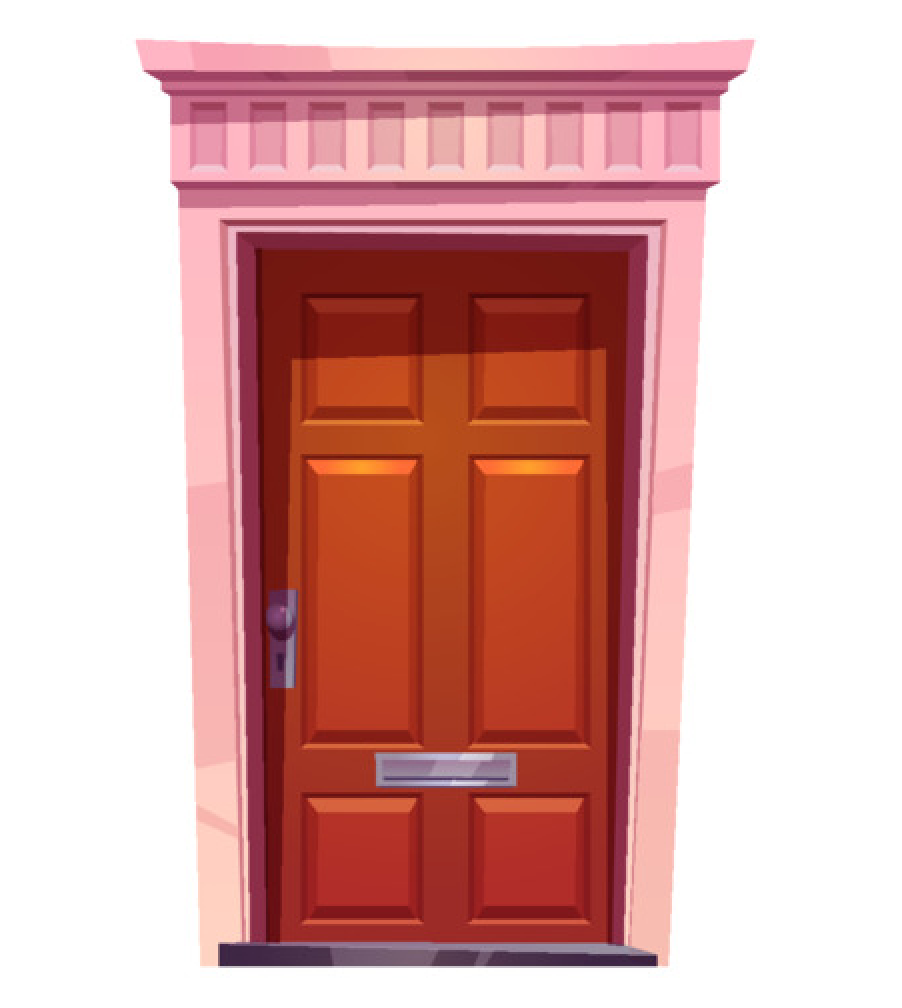
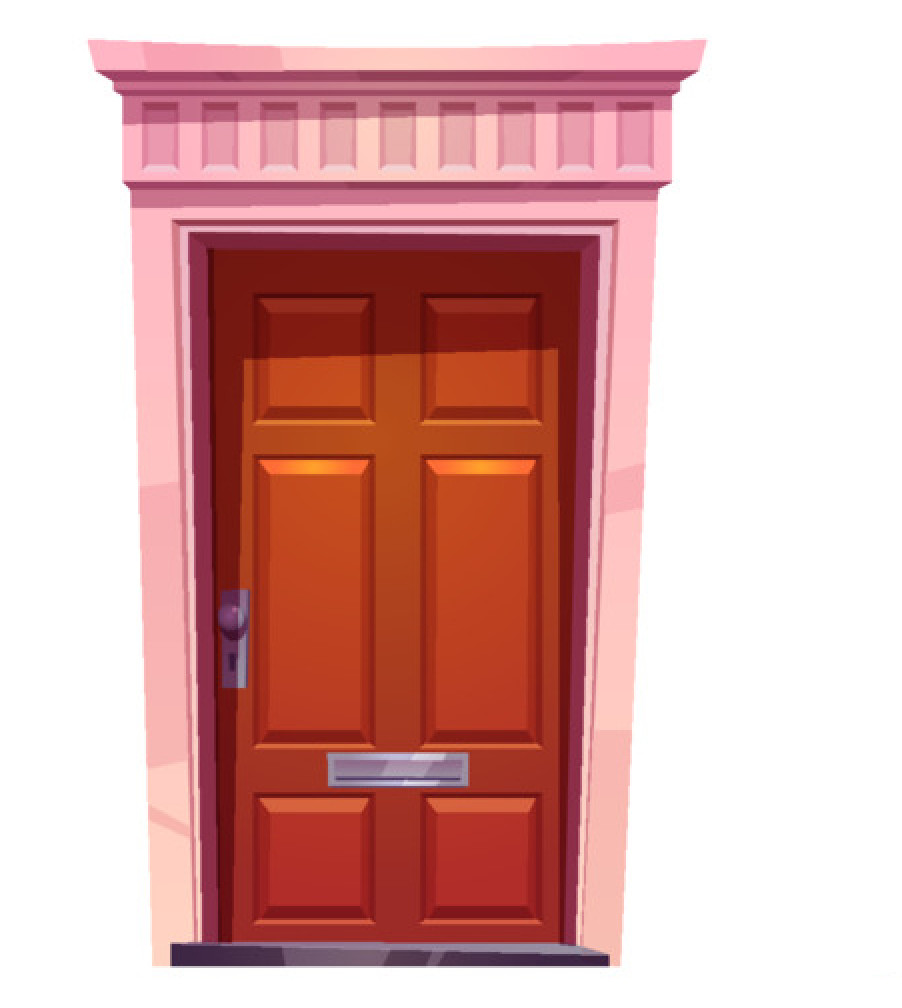
Update: image

Changed region(s): [[0.0931, 0.0308, 0.8381, 0.9841], [0.5277, 0.9226, 0.5588, 0.9534], [0.2173, 0.0308, 0.2483, 0.0615]]

diff --git a/src/components/doorImage.tsx b/src/components/doorImage.tsx
@@ -7,13 +7,13 @@ interface DoorImageProps {
 export default function DoorImage({ doorState }: DoorImageProps) {
   switch (doorState) {
     case DoorStateType.OPEN: {
-      return <img width={500} src="/door_opened.png" alt="open" />;
+      return <img width={500} src="/door_opened.png" alt="open" className="ml-[70px]" />;
     }
     case DoorStateType.CLOSED: {
-      return <img width={500} src="/door_closed.png" alt="close" />;
+      return <img width={500} src="/door_closed.png" alt="close" className="ml-[70px]" />;
     }
     case DoorStateType.LOCKED: {
-      return <img width={500} src="/door_locked.png" alt="locked" />;
+      return <img width={500} src="/door_locked.png" alt="locked" className="ml-[70px]" />;
     }
   }
 }
